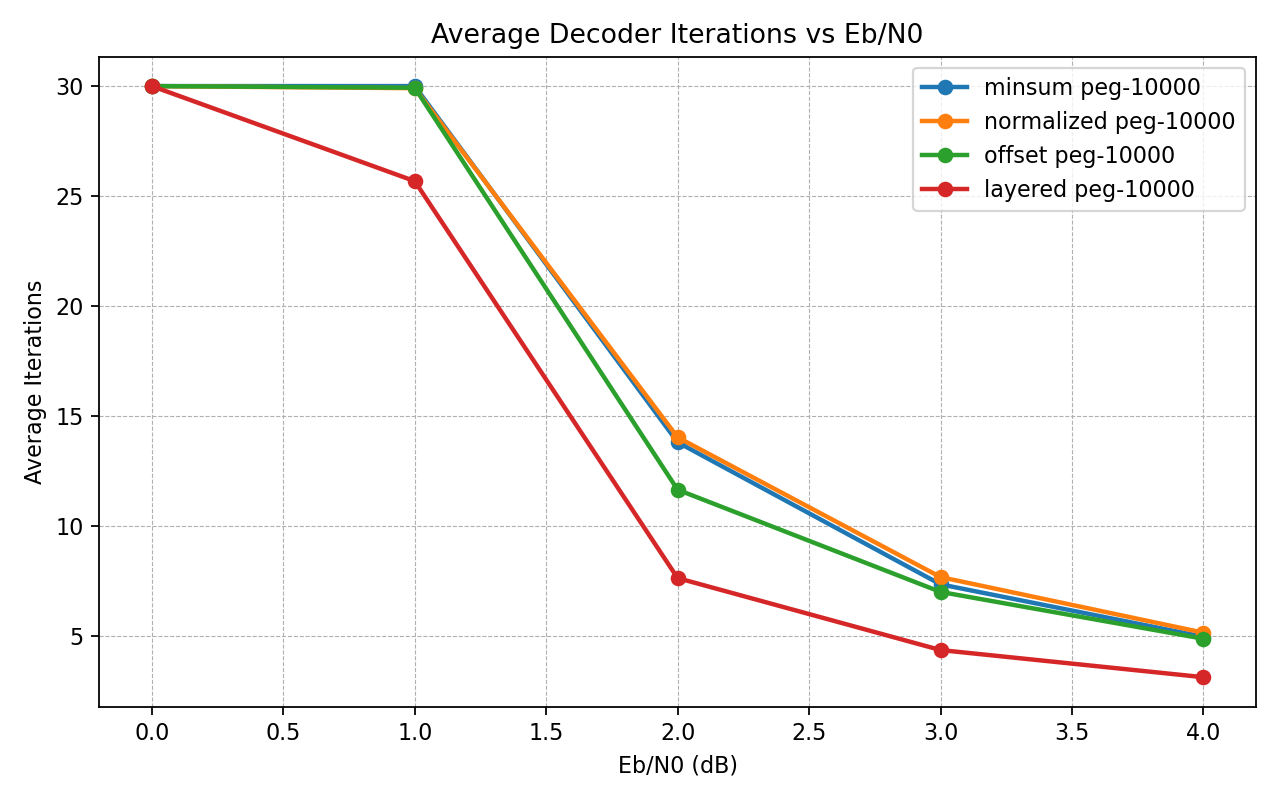
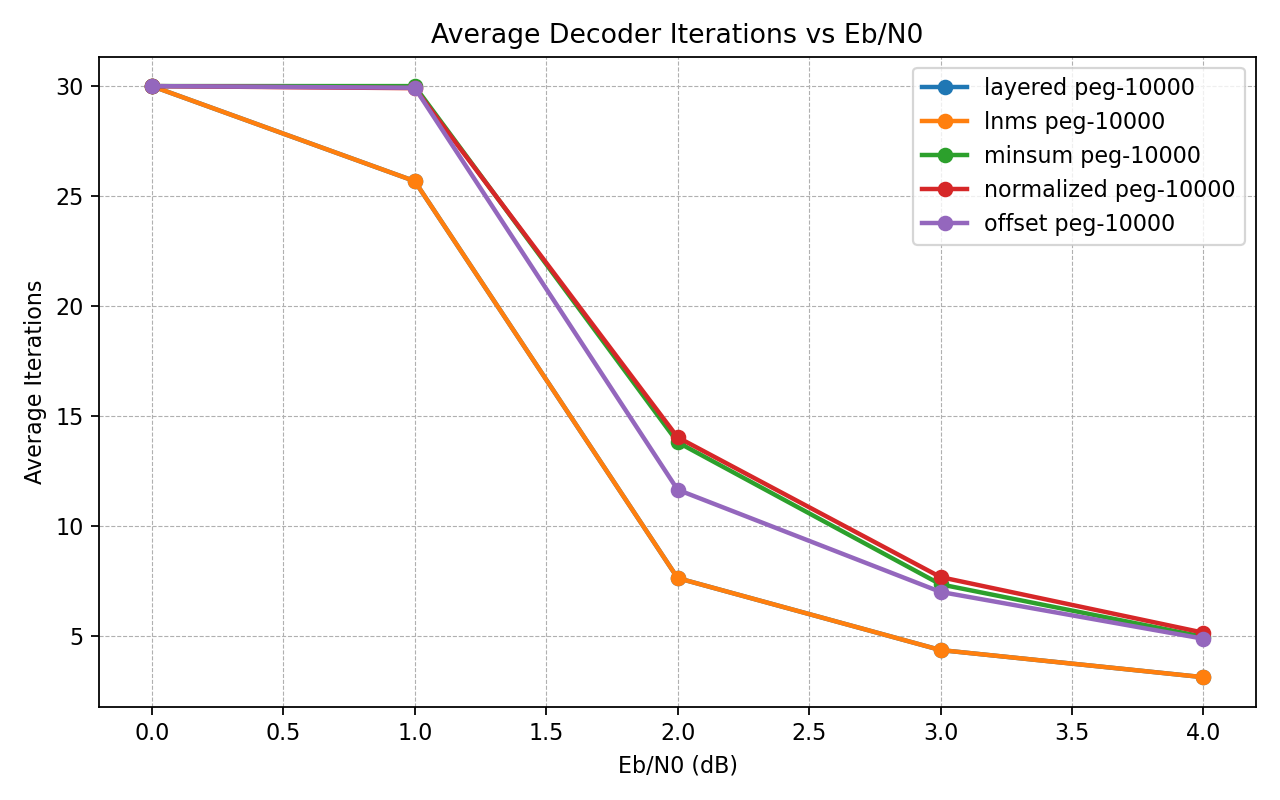
add layered normalized minsum decoder

diff --git a/src/main/java/ldpc/app/BerRunner.java b/src/main/java/ldpc/app/BerRunner.java
@@ -1,6 +1,7 @@
 package ldpc.app;
 
 import ldpc.decoder.LayeredMinSumDecoder;
+import ldpc.decoder.LayeredNormalizedMinSumDecoder;
 import ldpc.decoder.MinSumDecoder;
 import ldpc.decoder.NormalizedMinSumDecoder;
 import ldpc.decoder.OffsetMinSumDecoder;
@@ -46,25 +47,38 @@ public final class BerRunner {
         int rank = Gf2Rank.compute(h);
         double codeRate = Gf2Rank.codeRate(h);
 
-        SimulationConfig config = createConfig(
-                matrixName,
-                codeRate
+        SimulationConfig config =
+                createConfig(
+                        matrixName,
+                        codeRate
+                );
+
+        DecoderFactory factory =
+                createFactory(decoderName);
+
+        BerSimulation simulation =
+                new BerSimulation(
+                        h,
+                        config,
+                        factory
+                );
+
+        List<SimulationResult> results =
+                simulation.run();
+
+        Path output =
+                Path.of(
+                        "results/ber/ber_"
+                                + decoderName
+                                + "_"
+                                + matrixName
+                                + ".csv"
+                );
+
+        CsvWriter.writeBerResults(
+                output,
+                results
         );
-
-        DecoderFactory factory = createFactory(decoderName);
-        BerSimulation simulation = new BerSimulation(h, config, factory);
-
-        List<SimulationResult> results = simulation.run();
-
-        Path output = Path.of(
-                "results/ber/ber_"
-                        + decoderName
-                        + "_"
-                        + matrixName
-                        + ".csv"
-        );
-
-        CsvWriter.writeBerResults(output, results);
 
         System.out.println("Decoder: " + decoderName);
         System.out.println("Matrix: " + matrixName);
@@ -119,7 +133,9 @@ public final class BerRunner {
     private static CsrMatrix loadMatrix(String matrixName) throws Exception {
         return switch (matrixName) {
             case "toy" ->
-                    HMatrixLoader.loadResource(TOY_MATRIX_RESOURCE);
+                    HMatrixLoader.loadResource(
+                            TOY_MATRIX_RESOURCE
+                    );
 
             case "alist-toy" ->
                     AlistMatrixLoader.loadResource(
@@ -136,10 +152,18 @@ public final class BerRunner {
             case "gallager",
                  "regular",
                  "regular-96" ->
-                    RegularLdpcMatrixFactory.create(48, 96, 3);
+                    RegularLdpcMatrixFactory.create(
+                            48,
+                            96,
+                            3
+                    );
 
             case "regular-504" ->
-                    RegularLdpcMatrixFactory.create(252, 504, 3);
+                    RegularLdpcMatrixFactory.create(
+                            252,
+                            504,
+                            3
+                    );
 
             default ->
                     throw new IllegalArgumentException(
@@ -184,6 +208,16 @@ public final class BerRunner {
                             new LayeredMinSumDecoder(
                                     h,
                                     maxIterations,
+                                    1.0f
+                            );
+
+            case "layered-normalized",
+                 "layered-normalized-minsum",
+                 "lnms" ->
+                    (h, maxIterations) ->
+                            new LayeredNormalizedMinSumDecoder(
+                                    h,
+                                    maxIterations,
                                     0.75f
                             );
 
@@ -193,7 +227,8 @@ public final class BerRunner {
                                     + decoderName
                                     + ". Use: minsum, normalized, normalized-minsum, "
                                     + "nms, offset, offset-minsum, oms, layered, "
-                                    + "layered-minsum, or lms."
+                                    + "layered-minsum, lms, layered-normalized, "
+                                    + "layered-normalized-minsum, or lnms."
                     );
         };
     }

diff --git a/src/test/java/ldpc/decoder/LayeredNormalizedMinSumDecoderTest.java b/src/test/java/ldpc/decoder/LayeredNormalizedMinSumDecoderTest.java
@@ -1,0 +1,92 @@
+package ldpc.decoder;
+
+import ldpc.channel.AwgnChannel;
+import ldpc.channel.BpskModem;
+import ldpc.channel.LlrInitializer;
+import ldpc.matrix.CsrMatrix;
+import org.junit.jupiter.api.Test;
+
+import static org.junit.jupiter.api.Assertions.*;
+
+class LayeredNormalizedMinSumDecoderTest {
+
+    @Test
+    void decoderHandlesNoiselessAllZeroCodeword() {
+        CsrMatrix h = toyMatrix();
+
+        int[] codeword = {0, 0, 0, 0, 0, 0};
+        float[] symbols = BpskModem.modulate(codeword);
+        float[] llr = LlrInitializer.compute(symbols, 0.5f);
+
+        LayeredNormalizedMinSumDecoder decoder =
+                new LayeredNormalizedMinSumDecoder(
+                        h,
+                        10,
+                        0.75f
+                );
+
+        DecodeResult result = decoder.decode(llr);
+
+        assertTrue(result.success());
+        assertTrue(SyndromeChecker.isValid(h, result.bits()));
+    }
+
+    @Test
+    void decoderRecoversMildlyNoisyAllZeroCodeword() {
+        CsrMatrix h = toyMatrix();
+
+        int[] codeword = {0, 0, 0, 0, 0, 0};
+        float sigma = 0.45f;
+
+        float[] symbols = BpskModem.modulate(codeword);
+        float[] received = new AwgnChannel(7L).transmit(symbols, sigma);
+        float[] llr = LlrInitializer.compute(received, sigma);
+
+        LayeredNormalizedMinSumDecoder decoder =
+                new LayeredNormalizedMinSumDecoder(
+                        h,
+                        20,
+                        0.75f
+                );
+
+        DecodeResult result = decoder.decode(llr);
+
+        assertTrue(result.success());
+        assertTrue(SyndromeChecker.isValid(h, result.bits()));
+    }
+
+    @Test
+    void rejectsInvalidAlpha() {
+        CsrMatrix h = toyMatrix();
+
+        assertThrows(
+                IllegalArgumentException.class,
+                () -> new LayeredNormalizedMinSumDecoder(
+                        h,
+                        10,
+                        0.0f
+                )
+        );
+
+        assertThrows(
+                IllegalArgumentException.class,
+                () -> new LayeredNormalizedMinSumDecoder(
+                        h,
+                        10,
+                        1.5f
+                )
+        );
+    }
+
+    private static CsrMatrix toyMatrix() {
+        return CsrMatrix.fromRows(
+                3,
+                6,
+                new int[][] {
+                        {0, 1, 3},
+                        {1, 2, 4},
+                        {0, 2, 5}
+                }
+        );
+    }
+}

diff --git a/src/main/java/ldpc/decoder/LayeredNormalizedMinSumDecoder.java b/src/main/java/ldpc/decoder/LayeredNormalizedMinSumDecoder.java
@@ -1,0 +1,25 @@
+package ldpc.decoder;
+
+import ldpc.matrix.CsrMatrix;
+
+public final class LayeredNormalizedMinSumDecoder implements LdpcDecoder {
+    private final LayeredMinSumDecoder delegate;
+
+    public LayeredNormalizedMinSumDecoder(
+            CsrMatrix h,
+            int maxIterations,
+            float alpha
+    ) {
+        this.delegate =
+                new LayeredMinSumDecoder(
+                        h,
+                        maxIterations,
+                        alpha
+                );
+    }
+
+    @Override
+    public DecodeResult decode(float[] channelLlr) {
+        return delegate.decode(channelLlr);
+    }
+}
